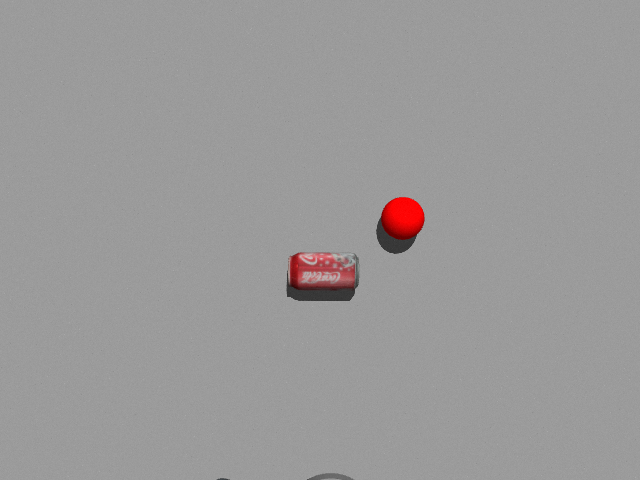
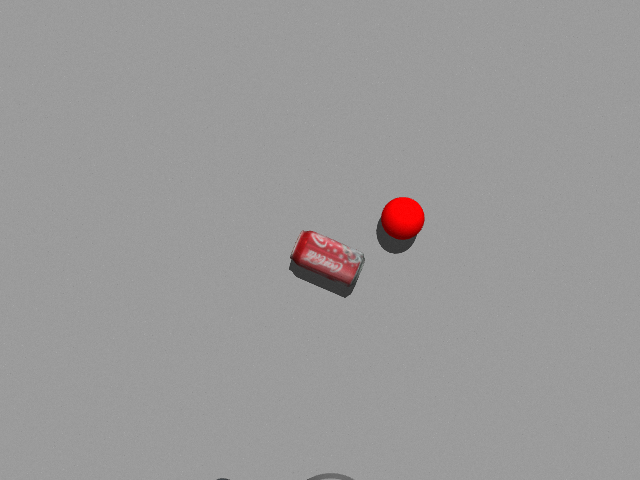
add orientation, pointstamped to posestamped

Changed region(s): [[0.4375, 0.4688, 0.5938, 0.625]]

diff --git a/scripts/ros_object_detect.py b/scripts/ros_object_detect.py
@@ -7,8 +7,10 @@ import cv2
 from sensor_msgs.msg import Image
 from obj_detection.msg import floatList
 from cv_bridge import CvBridge, CvBridgeError
-from geometry_msgs.msg import PointStamped
-import imutils 
+from geometry_msgs.msg import PointStamped, PoseStamped
+from tf.transformations import quaternion_from_euler
+import imutils
+import math
 
 class ColorObj:
     def __init__(self,name,low_r=np.array([0,0,0],np.uint8),high_r=np.array([0,0,0],np.uint8),low_c=None,high_c=None):
@@ -61,7 +63,7 @@ class ObjectDetector:
         # self.sub_rgb = rospy.Subscriber('/camera/color/image_raw', Image, self.rgb_callback)
         self.sub_depth = rospy.Subscriber('/camera/depth/image_rect_raw', Image, self.d_callback)
 
-        self.pub = rospy.Publisher('/camera/object_track', PointStamped, queue_size = 1)
+        self.pub = rospy.Publisher('/camera/object_track', PoseStamped, queue_size = 1)
 
     
     def rgb_callback(self,rgb_msg):
@@ -122,7 +124,7 @@ class ObjectDetector:
         for i, c in enumerate(contours):
  
             area = cv2.contourArea(c)
-            print(area)
+            # print(area)
             
             if area < 1000 or 50000 < area:
                 continue
@@ -138,6 +140,7 @@ class ObjectDetector:
             width = int(rect[1][0])
             height = int(rect[1][1])
             angle = int(rect[2])
+            angle = math.radians(angle)
             
             shape = "unidentified"
             ar = width / float(height)
@@ -163,6 +166,7 @@ class ObjectDetector:
 
             self.xypoints[0] = center[0]
             self.xypoints[1] = center[1]
+            self.quaternion = quaternion_from_euler(0, 0, angle)
 
             self.calc_obj_pos(color_obj)
             
@@ -194,14 +198,15 @@ class ObjectDetector:
 
     def pub_xyz(self,clr):
 
-        pointstamp = PointStamped()
-        pointstamp.header.frame_id= 'camera_depth_optical_frame'
-        pointstamp.header.stamp= rospy.Time(0)
-        pointstamp.point.x = clr.xyz[0]
-        pointstamp.point.y = clr.xyz[1]
-        pointstamp.point.z = clr.xyz[2]
+        posestamp = PoseStamped()
+        posestamp.header.frame_id= 'camera_depth_optical_frame'
+        posestamp.header.stamp= rospy.Time(0)
+        posestamp.position.x = clr.xyz[0]
+        posestamp.position.y = clr.xyz[1]
+        posestamp.position.z = clr.xyz[2]
+        posestamp.orientation = self.quaternion
 
-        self.pub.publish(pointstamp)
+        self.pub.publish(posestamp)
 
 
 def main():

diff --git a/scripts/obj_det.py b/scripts/obj_det.py
@@ -2,10 +2,11 @@
 import cv2 as cv
 from math import atan2, cos, sin, sqrt, pi
 import numpy as np
+import math
  
 # Load the image
 # img = cv.imread("input_img.jpg")
-image = cv.imread("tape2.png")
+image = cv.imread("../images/tape2.png")
 
 result = image.copy()
 image = cv.cvtColor(image, cv.COLOR_BGR2HSV)
@@ -71,9 +72,11 @@ for i, c in enumerate(contours):
   else:
     angle = -angle
 
+  angle = math.radians(angle)
+
   if ar >= 0.95 and ar <= 1.05:
     shape = "square"
-    angle = int(0)
+    angle = 0
   else:
     shape = "rectangle"
          
@@ -85,9 +88,9 @@ for i, c in enumerate(contours):
     cv.FONT_HERSHEY_SIMPLEX, 0.7, (0,0,0), 1, cv.LINE_AA)
   cv.drawContours(img,[box],0,(0,0,255),2)
  
-cv.imshow('Output Image', img)
-cv.waitKey(0)
-cv.destroyAllWindows()
+# cv.imshow('Output Image', img)
+# cv.waitKey(0)
+# cv.destroyAllWindows()
   
 # Save the output image to the current directory
-cv.imwrite("min_area_rec_output.jpg", img)
+cv.imwrite("../images/min_area_rec_output.jpg", img)
